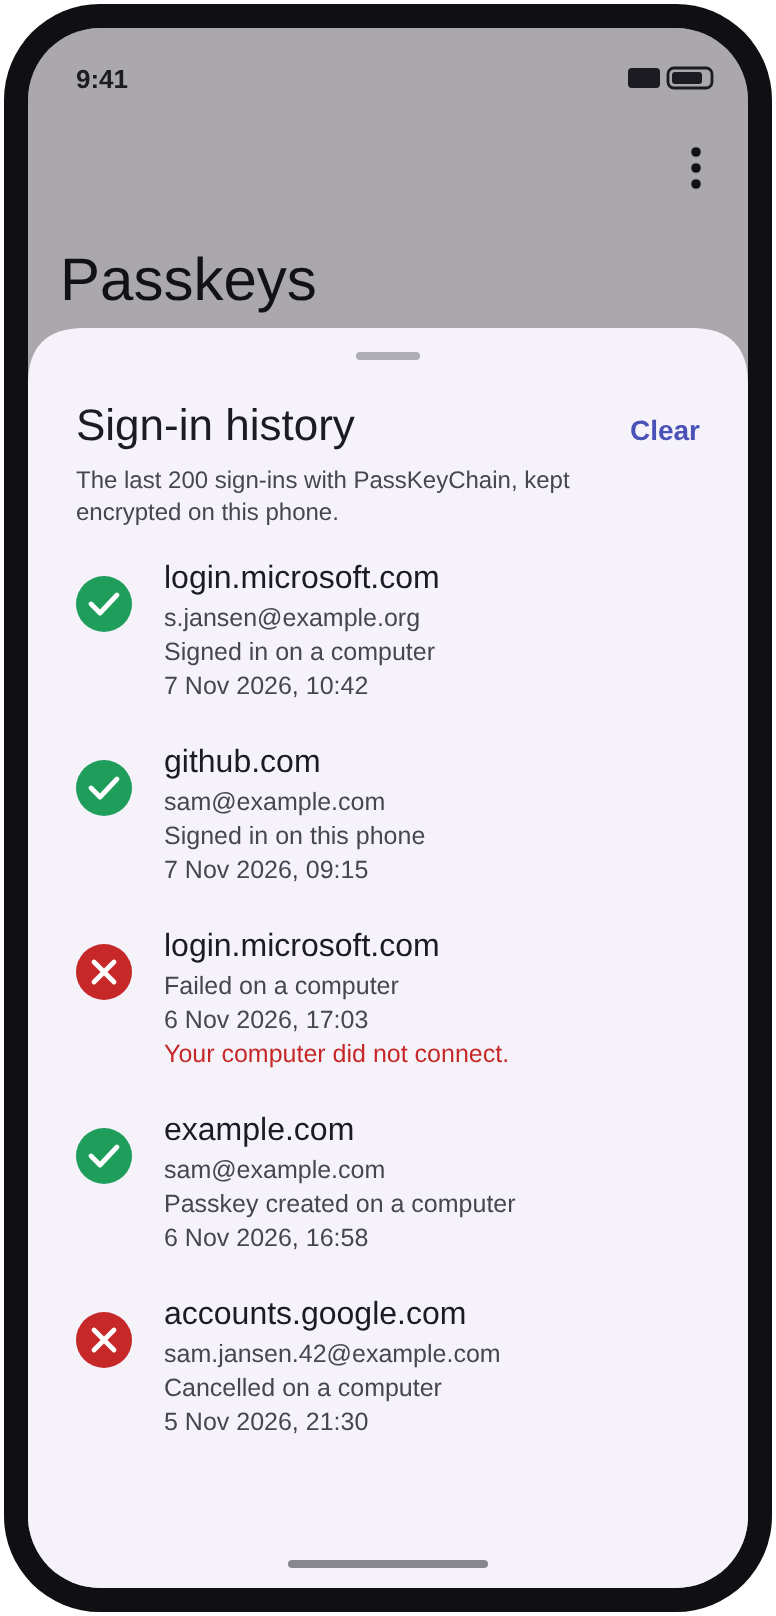
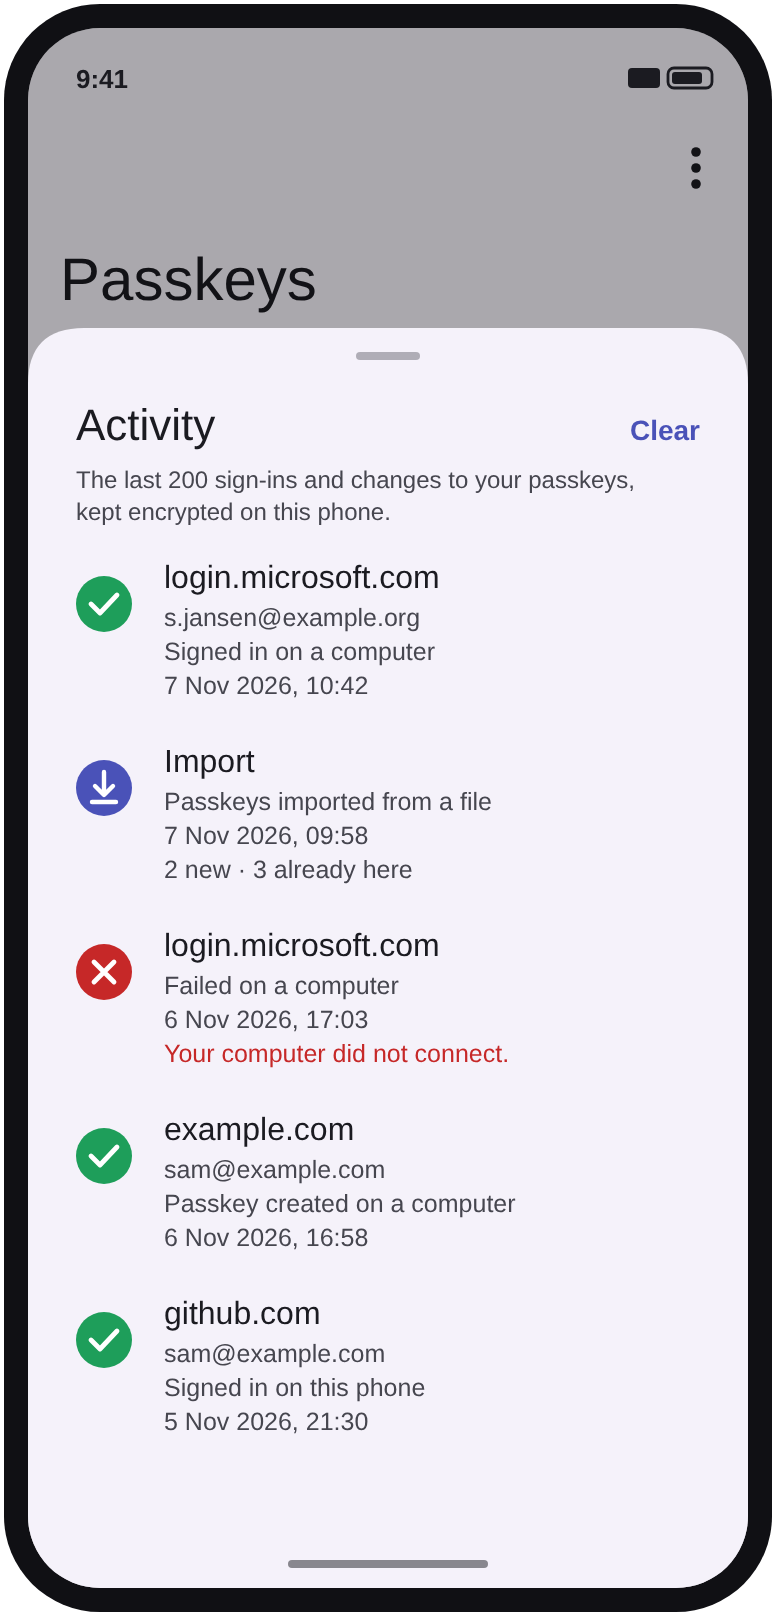
Website and README: Activity log instead of sign-in history
The feature card, the screenshot (now with an import entry) and the
README describe the activity log: sign-ins and changes to the passkeys.

Claude-Session: https://claude.ai/code/session_01Sf6BjLYgBsn6Pwp3AkGd6P

diff --git a/docs/index.html b/docs/index.html
@@ -197,8 +197,8 @@
       </div>
       <div class="card">
         <div class="ic">⬆</div>
-        <h3>Sign-in history</h3>
-        <p>A short, encrypted history shows which site and account signed in where, and when, including attempts that failed or that you cancelled. The app also keeps itself up to date from GitHub.</p>
+        <h3>Activity log</h3>
+        <p>A short, encrypted log of every sign-in (which site and account, where and when, also attempts that failed or that you cancelled) and every change: passkeys created, deleted, imported or exported. The app also keeps itself up to date from GitHub.</p>
       </div>
     </div>
     <p class="note" style="margin-top:22px">🔒 <strong>For passkeys you own.</strong> PassKeyChain holds and uses the passkeys of your own accounts, and signs only on the phone, never on a server.</p>
@@ -212,7 +212,7 @@
     <div class="shot-row">
       <div class="shot"><img src="assets/screen_home.png" alt="Passkeys grouped per website"><p>Your passkeys, grouped per website.</p></div>
       <div class="shot"><img src="assets/screen_details.png" alt="Details of one passkey in a bottom sheet"><p>Details, copy and delete (with undo).</p></div>
-      <div class="shot"><img src="assets/screen_history.png" alt="The sign-in history: sites, accounts, times and outcomes, with green checks for sign-ins and red crosses for failures" loading="lazy"><p>Sign-in history: what signed in where, and when.</p></div>
+      <div class="shot"><img src="assets/screen_history.png" alt="The activity log: sign-ins with site, account, time and outcome, an import, and a created passkey, with green checks, red crosses and an import icon" loading="lazy"><p>Activity: every sign-in and every change.</p></div>
     </div>
     <h3>Signing in on a computer</h3>
     <div class="shot-row">

diff --git a/README.md b/README.md
@@ -41,8 +41,9 @@ That is about 1000 lines of Kotlin in `hybrid/`.
 then sign in with the new passkey). A new passkey is backup-eligible but not backed up
 until it is exported to Bitwarden.
 
-**Sign-in history**: the last 200 sign-ins (site, account, time, outcome),
-encrypted on the phone; "last used" in the passkey details.
+**Activity log**: the last 200 sign-ins (site, account, time, outcome) and
+changes (passkeys created, deleted, imported, exported), encrypted on the
+phone; "last used" in the passkey details.
 
 ---
 
